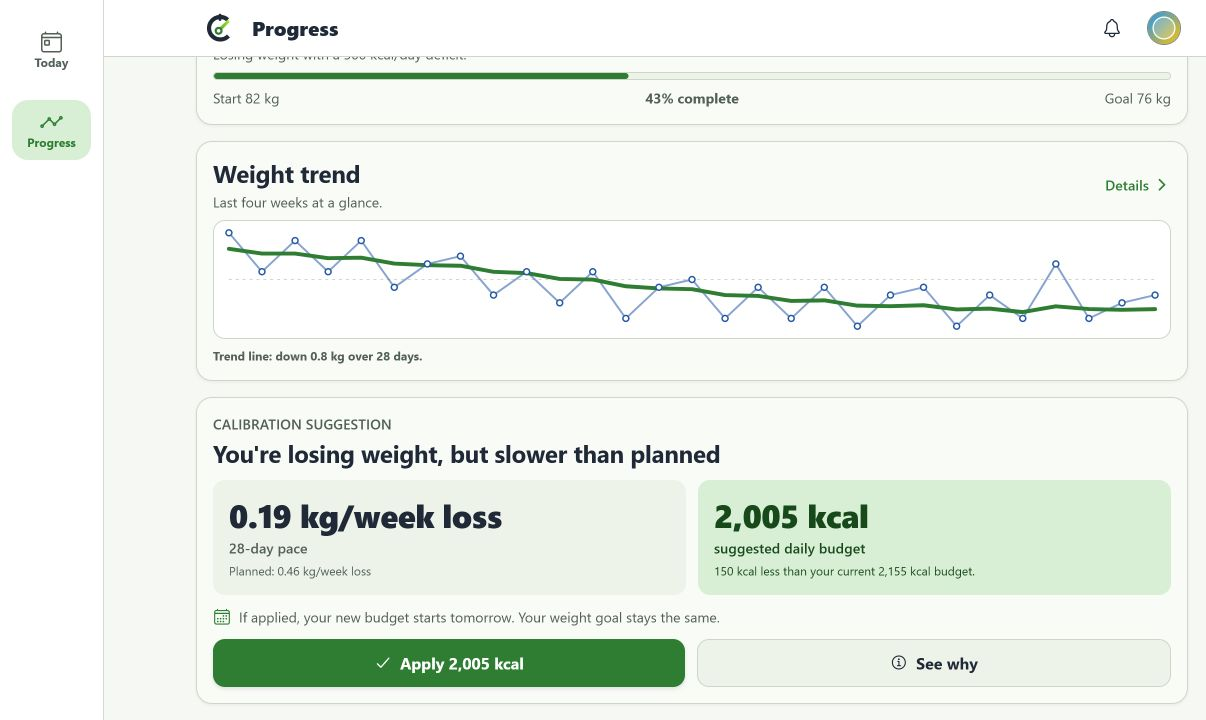
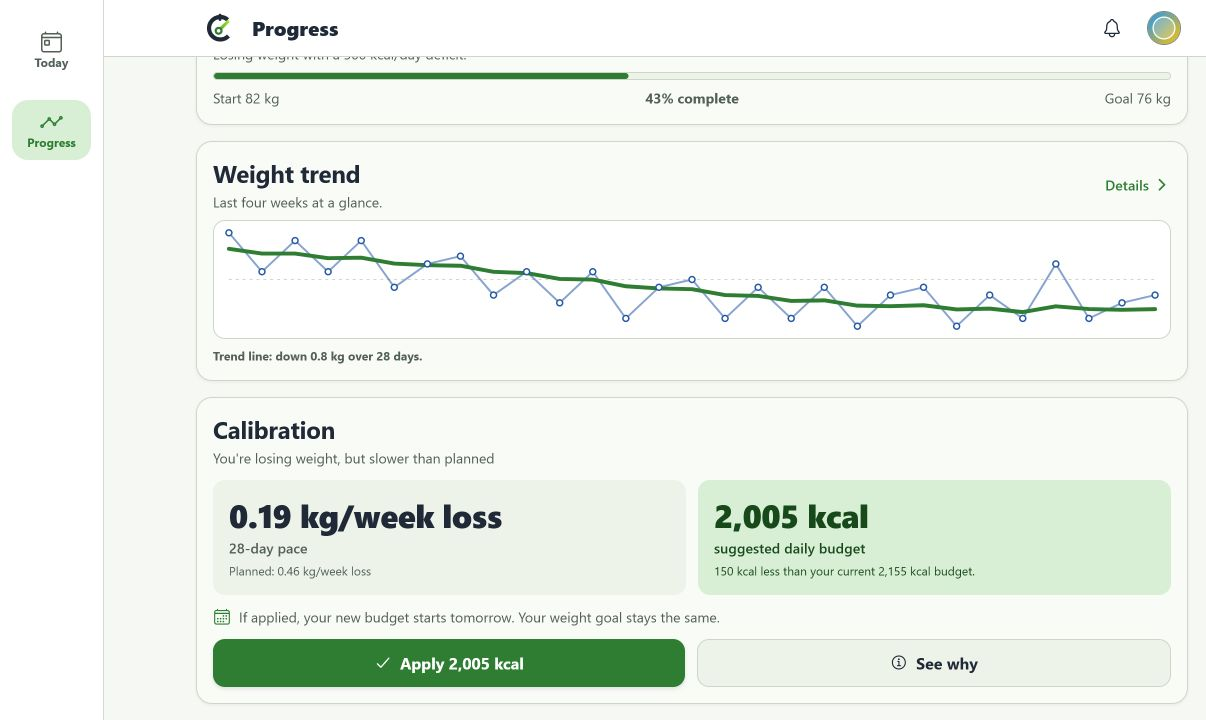
Simplify calibration review hierarchy

Changed region(s): [[0.1534, 0.5806, 0.6136, 0.6722]]

diff --git a/mobile/src/components/CalibrationInsightCard.tsx b/mobile/src/components/CalibrationInsightCard.tsx
@@ -9,7 +9,6 @@ import { AppButton } from './AppButton';
 import { AppCard } from './AppCard';
 import { AppText } from './AppText';
 import { BottomSheetModal } from './BottomSheetModal';
-import { MetricTile } from './MetricTile';
 import { ProgressBar } from './ProgressBar';
 import { SectionHeader } from './SectionHeader';
 import { useAuth } from '../auth/AuthContext';
@@ -114,7 +113,7 @@ export const CalibrationInsightCard: React.FC<ViewProps> = ({ style, ...props })
         ? `${Math.round(evaluation.estimates.averageIntakeKcal.midpoint).toLocaleString()} kcal`
         : 'Not enough evidence';
     const recommendationReason = actionableRecommendation
-        ? `Over the last ${selectedHistoryDays} days, you logged an average of ${averageIntake} per day and your recent pace was ${observedPaceWithDirection}, compared with a planned ${plannedPace}${plannedDirection === 'stable' ? '' : ` ${plannedDirection}`}. If that pattern continues, a slightly ${actionableRecommendation.adjustmentStepKcal < 0 ? 'lower' : 'higher'} daily budget could bring your pace closer to plan.`
+        ? `Your logged intake and weight trend are moving at a different pace than planned. If this pattern continues, a slightly ${actionableRecommendation.adjustmentStepKcal < 0 ? 'lower' : 'higher'} daily budget could bring your pace closer to plan.`
         : null;
     const budgetEstimateExplanation = actionableRecommendation
         ? describeCalorieBudgetEstimate(
@@ -134,18 +133,17 @@ export const CalibrationInsightCard: React.FC<ViewProps> = ({ style, ...props })
     const reviewApplyButtonTitle = actionableRecommendation
         ? `${applyButtonTitle} ${effectiveDateLabel}`
         : applyButtonTitle;
+    const cardDescription = scheduledChange && !actionableRecommendation
+        ? 'Your calorie budget update is scheduled'
+        : evaluation.headline;
 
     return (
         <>
             <AppCard {...props} style={style}>
-                {actionableRecommendation ? (
-                    <SectionHeader eyebrow="CALIBRATION SUGGESTION" title={evaluation.headline} />
-                ) : (
-                    <SectionHeader
-                        title="Calibration"
-                        description={scheduledChange ? 'Your calorie budget update is scheduled' : evaluation.headline}
-                    />
-                )}
+                <SectionHeader
+                    title="Calibration"
+                    description={cardDescription}
+                />
                 {scheduledChange ? (
                     <View
                         role="status"
@@ -278,20 +276,35 @@ export const CalibrationInsightCard: React.FC<ViewProps> = ({ style, ...props })
                             title={`Why we suggest ${actionableRecommendation.recommendedTargetKcal.toLocaleString()} kcal`}
                             description="Here is how your recent logs and weight trend informed this suggestion."
                         />
-                        <AppText variant="label">What we observed</AppText>
-                        <View style={[
-                            styles.observationGrid,
-                            stackRecommendation && styles.observationGridStacked
-                        ]}>
-                            <MetricTile label="average logged per day" value={averageIntake} />
-                            <MetricTile
-                                label={observedDirection === null ? 'recent pace' : `recent ${observedDirection}`}
-                                value={observedPaceWithDirection}
-                            />
-                            <MetricTile
-                                label={plannedDirection === 'stable' ? 'planned pace' : `planned ${plannedDirection}`}
-                                value={plannedPace}
-                            />
+                        <View style={styles.explanationSection}>
+                            <AppText variant="label">What we observed</AppText>
+                            <View style={styles.evidencePanel}>
+                                <View style={[
+                                    styles.evidenceRow,
+                                    stackRecommendation && styles.evidenceRowStacked
+                                ]}>
+                                    <AppText variant="muted" style={styles.evidenceLabel}>Average logged</AppText>
+                                    <AppText variant="subtitle" style={styles.evidenceValue}>{averageIntake}/day</AppText>
+                                </View>
+                                <View style={styles.evidenceDivider} />
+                                <View style={[
+                                    styles.evidenceRow,
+                                    stackRecommendation && styles.evidenceRowStacked
+                                ]}>
+                                    <AppText variant="muted" style={styles.evidenceLabel}>Recent pace</AppText>
+                                    <AppText variant="subtitle" style={styles.evidenceValue}>{observedPaceWithDirection}</AppText>
+                                </View>
+                                <View style={styles.evidenceDivider} />
+                                <View style={[
+                                    styles.evidenceRow,
+                                    stackRecommendation && styles.evidenceRowStacked
+                                ]}>
+                                    <AppText variant="muted" style={styles.evidenceLabel}>Planned pace</AppText>
+                                    <AppText variant="subtitle" style={styles.evidenceValue}>
+                                        {plannedPace}{plannedDirection === 'stable' ? '' : ` ${plannedDirection}`}
+                                    </AppText>
+                                </View>
+                            </View>
                         </View>
                         <View style={styles.explanationSection}>
                             <AppText variant="label">What the pattern suggests</AppText>
@@ -302,33 +315,32 @@ export const CalibrationInsightCard: React.FC<ViewProps> = ({ style, ...props })
                                 <AppText variant="label">
                                     Why start with {Math.abs(actionableRecommendation.adjustmentStepKcal).toLocaleString()} kcal?
                                 </AppText>
-                                <View style={styles.reasoningSteps}>
-                                    <View style={styles.reasoningStep}>
+                                <View style={styles.reasoningPanel}>
+                                    <View style={styles.reasoningItem}>
                                         <AppText variant="label">Estimated change</AppText>
                                         <AppText variant="muted">{budgetEstimateExplanation.signal}</AppText>
                                     </View>
-                                    <View style={styles.reasoningStep}>
+                                    <View style={styles.evidenceDivider} />
+                                    <View style={styles.reasoningItem}>
                                         <AppText variant="label">Uncertainty</AppText>
-                                        <AppText variant="caption">{budgetEstimateExplanation.range}</AppText>
+                                        <AppText variant="muted">{budgetEstimateExplanation.range}</AppText>
                                     </View>
-                                    <View style={[styles.reasoningStep, styles.recommendedStep]}>
-                                        <AppText variant="label" style={styles.budgetPanelText}>Recommended first step</AppText>
-                                        <AppText variant="muted" style={styles.budgetPanelText}>
-                                            {budgetEstimateExplanation.firstStep}
-                                        </AppText>
+                                    <View style={styles.evidenceDivider} />
+                                    <View style={styles.reasoningItem}>
+                                        <AppText variant="label">Recommended first step</AppText>
+                                        <AppText variant="muted">{budgetEstimateExplanation.firstStep}</AppText>
                                     </View>
                                 </View>
                             </View>
                         )}
-                        <View style={styles.explanationSection}>
-                            <AppText variant="label">Evidence quality</AppText>
-                            <AppText variant="muted">{describeCalibrationEvidenceForReview(evaluation)}</AppText>
-                        </View>
                         <View style={styles.safetyRow}>
                             <Ionicons name="shield-checkmark-outline" size={18} color={theme.colors.primary} />
-                            <AppText variant="caption" style={styles.safetyText}>
-                                Calibrate checks every suggestion against a BMR-based safety floor before showing it.
-                            </AppText>
+                            <View style={styles.safetyText}>
+                                <AppText variant="label">Evidence and safety</AppText>
+                                <AppText variant="caption">
+                                    {describeCalibrationEvidenceForReview(evaluation)} Calibrate checks every suggestion against a BMR-based safety floor before showing it.
+                                </AppText>
+                            </View>
                         </View>
                         <View style={styles.decisionSummary}>
                             <AppText variant="label">
@@ -426,39 +438,54 @@ function createStyles(theme: AppTheme) {
         maxWidth: 800,
         gap: spacing.md
     },
-    observationGrid: {
-        flexDirection: 'row',
-        gap: spacing.md
-    },
-    observationGridStacked: {
-        flexDirection: 'column'
-    },
     explanationSection: {
         gap: spacing.xs
     },
-    reasoningSteps: {
-        gap: spacing.sm
-    },
-    reasoningStep: {
-        gap: spacing.xs,
+    evidencePanel: {
+        gap: spacing.sm,
         borderRadius: theme.radius.md,
         padding: spacing.md,
         backgroundColor: theme.colors.surfaceContainer
     },
-    recommendedStep: {
-        backgroundColor: theme.colors.successContainer
-    },
-    safetyRow: {
+    evidenceRow: {
         flexDirection: 'row',
         alignItems: 'center',
+        gap: spacing.md
+    },
+    evidenceRowStacked: {
+        flexDirection: 'column',
+        alignItems: 'flex-start',
+        gap: spacing.xs
+    },
+    evidenceLabel: {
+        flex: 1,
+        minWidth: 0
+    },
+    evidenceValue: {
+        flexShrink: 1,
+        textAlign: 'right'
+    },
+    evidenceDivider: {
+        height: StyleSheet.hairlineWidth,
+        backgroundColor: theme.colors.outlineVariant
+    },
+    reasoningPanel: {
         gap: spacing.sm,
         borderRadius: theme.radius.md,
         padding: spacing.md,
-        backgroundColor: theme.colors.primaryContainer
+        backgroundColor: theme.colors.surfaceContainer
+    },
+    reasoningItem: {
+        gap: spacing.xs,
+    },
+    safetyRow: {
+        flexDirection: 'row',
+        alignItems: 'flex-start',
+        gap: spacing.sm
     },
     safetyText: {
         flex: 1,
-        color: theme.colors.onPrimaryContainer
+        gap: spacing.xs
     },
     decisionSummary: {
         gap: spacing.xs,

diff --git a/mobile/src/components/CalibrationInsightCard.test.tsx b/mobile/src/components/CalibrationInsightCard.test.tsx
@@ -235,9 +235,9 @@ describe('CalibrationInsightCard', () => {
 
     it('makes the recommendation visual and directly actionable without opening the evidence sheet', async () => {
         const screen = renderCard();
-        await waitFor(() => expect(screen.getByText('CALIBRATION SUGGESTION')).toBeTruthy());
+        await waitFor(() => expect(screen.getByText("You're losing weight, but slower than planned")).toBeTruthy());
 
-        expect(screen.getByText("You're losing weight, but slower than planned")).toBeTruthy();
+        expect(screen.getByText('Calibration')).toBeTruthy();
         expect(screen.getByText('0.36 kg/week loss')).toBeTruthy();
         expect(screen.getByText('28-day pace')).toBeTruthy();
         expect(screen.getByText('Planned: 0.46 kg/week loss')).toBeTruthy();
@@ -258,7 +258,8 @@ describe('CalibrationInsightCard', () => {
         fireEvent.press(screen.getByText('See why'));
         expect(screen.getByText('Why we suggest 1,750 kcal')).toBeTruthy();
         expect(screen.getByText('What we observed')).toBeTruthy();
-        expect(screen.getAllByText('1,900 kcal')).toHaveLength(2);
+        expect(screen.getByText('1,900 kcal/day')).toBeTruthy();
+        expect(screen.getByText('1,900 kcal')).toBeTruthy();
         expect(screen.getByText('What the pattern suggests')).toBeTruthy();
         expect(screen.getByText('Why start with 150 kcal?')).toBeTruthy();
         expect(screen.getByText('Estimated change')).toBeTruthy();
@@ -268,7 +269,7 @@ describe('CalibrationInsightCard', () => {
         expect(screen.getByText('Recommended first step')).toBeTruthy();
         expect(screen.getByText('Current')).toBeTruthy();
         expect(screen.getByText('Proposed')).toBeTruthy();
-        expect(screen.getByText('This review uses 28 well-tracked food days and 14 weigh-ins across 28 days.')).toBeTruthy();
+        expect(screen.getByText(/This review uses 28 well-tracked food days and 14 weigh-ins across 28 days/)).toBeTruthy();
         expect(screen.queryByText('estimated budget difference')).toBeNull();
         fireEvent.press(screen.getByText('Close'));
 
@@ -295,7 +296,7 @@ describe('CalibrationInsightCard', () => {
         Dimensions.set({ window: dimensions, screen: dimensions });
         const screen = renderCard();
 
-        await waitFor(() => expect(screen.getByText('CALIBRATION SUGGESTION')).toBeTruthy());
+        await waitFor(() => expect(screen.getByText('Apply 1,750 kcal')).toBeTruthy());
         expect(StyleSheet.flatten(screen.getByTestId('calibration-recommendation-panels').props.style))
             .toMatchObject({ flexDirection: 'column' });
         expect(StyleSheet.flatten(screen.getByTestId('calibration-recommendation-actions').props.style))

diff --git a/mobile/src/components/BottomSheetModal.tsx b/mobile/src/components/BottomSheetModal.tsx
@@ -182,10 +182,22 @@ export const BottomSheetModal: React.FC<BottomSheetModalProps> = ({
                         }
                     ]}
                 >
+                    {sheetTopControl && (
+                        <View testID="bottom-sheet-fixed-controls" style={styles.topControls}>
+                            {sheetTopControl}
+                        </View>
+                    )}
                     <KeyboardAwareScrollView
-                        contentContainerStyle={[styles.content, { paddingBottom: Math.max(theme.spacing.lg, insets.bottom + theme.spacing.sm) }]}
+                        testID="bottom-sheet-scroll"
+                        style={styles.scroll}
+                        contentContainerStyle={[
+                            styles.content,
+                            {
+                                paddingTop: sheetTopControl ? theme.spacing.sm : theme.spacing.md,
+                                paddingBottom: Math.max(theme.spacing.lg, insets.bottom + theme.spacing.sm)
+                            }
+                        ]}
                     >
-                        {sheetTopControl}
                         {children}
                     </KeyboardAwareScrollView>
                 </Animated.View>
@@ -222,10 +234,18 @@ function createStyles(theme: AppTheme) {
         borderColor: theme.colors.outlineVariant,
         borderTopWidth: StyleSheet.hairlineWidth
     },
+    topControls: {
+        width: '100%',
+        paddingHorizontal: theme.spacing.lg,
+        paddingTop: theme.spacing.sm,
+        backgroundColor: theme.colors.surfaceContainerLow
+    },
+    scroll: {
+        flexShrink: 1
+    },
     content: {
         gap: theme.spacing.md,
-        paddingHorizontal: theme.spacing.lg,
-        paddingTop: theme.spacing.md
+        paddingHorizontal: theme.spacing.lg
     },
     closeRow: {
         alignSelf: 'center',
@@ -240,8 +260,7 @@ function createStyles(theme: AppTheme) {
         width: 44,
         height: 4,
         borderRadius: theme.radius.pill,
-        backgroundColor: theme.colors.outline,
-        marginBottom: theme.spacing.xs
+        backgroundColor: theme.colors.outline
     }
     });
 }

diff --git a/mobile/src/components/BottomSheetModal.test.tsx b/mobile/src/components/BottomSheetModal.test.tsx
@@ -52,6 +52,8 @@ describe('BottomSheetModal', () => {
             importantForAccessibility: 'no-hide-descendants',
             'aria-hidden': true
         });
+        expect(screen.getByTestId('bottom-sheet-fixed-controls')).toBeTruthy();
+        expect(screen.getByTestId('bottom-sheet-scroll')).toBeTruthy();
         fireEvent.press(screen.getByLabelText('Close calibration details'));
         expect(onRequestClose).toHaveBeenCalledTimes(1);
     });

diff --git a/docs/calibration-insight-qa.md b/docs/calibration-insight-qa.md
@@ -95,6 +95,9 @@ The lab invokes the same pure evaluator used by the service. The seeded-product 
 48. **A refetch could invalidate an open recommendation or obscure a successfully accepted change.** An open review now closes when its recommendation disappears. Applying updates the cached status immediately, and a later refresh failure remains non-blocking instead of replacing the accepted schedule with a generic error.
 49. **The surrounding goal card reintroduced signed calorie ambiguity.** `-500 kcal/day plan` is now the direct `500 kcal/day deficit`, with gain goals mirrored as an unsigned surplus.
 50. **Compact and large-text layouts were only manually checked.** Component tests now assert stacked panels and actions at 390 px and at a 1.5 font scale, alongside the live responsive browser pass.
+51. **The evidence sheet used too many competing surfaces and typographic treatments.** Supporting metrics now share one compact evidence block, model reasoning uses one consistently formatted block, evidence quality and safety share a quiet inline note, and only the final budget decision receives the green emphasis.
+52. **The modal close action scrolled out of reach.** Sheet controls now live outside the content scroller, so the close button remains visible and operable at the top of the container after scrolling to the decision actions.
+53. **The recommendation card did not follow the Progress page's heading pattern.** `Calibration` is now the stable card heading in every state, with the current conclusion presented as its description like the neighboring Progress cards.
 
 ## Screenshots
 
@@ -132,7 +135,7 @@ The lab invokes the same pure evaluator used by the service. The seeded-product 
 
 ## Seeded product experience
 
-The seeded account was exercised through auto-login, current and historical completed food days, the full food-log view, Progress, all weight-trend ranges, recommendation review, the non-applying `Close` path, approval, reload, and persisted scheduled-change states. The final pass also verified dialog focus containment, background inertness, focus restoration, and effective-date copy in the real Expo web client.
+The seeded account was exercised through auto-login, current and historical completed food days, the full food-log view, Progress, all weight-trend ranges, recommendation review, the non-applying `Close` path, approval, reload, and persisted scheduled-change states. The final pass also verified dialog focus containment, background inertness, focus restoration, effective-date copy, and fixed dismissal after scrolling in the real Expo web client.
 
 ### Completed current food day
 
